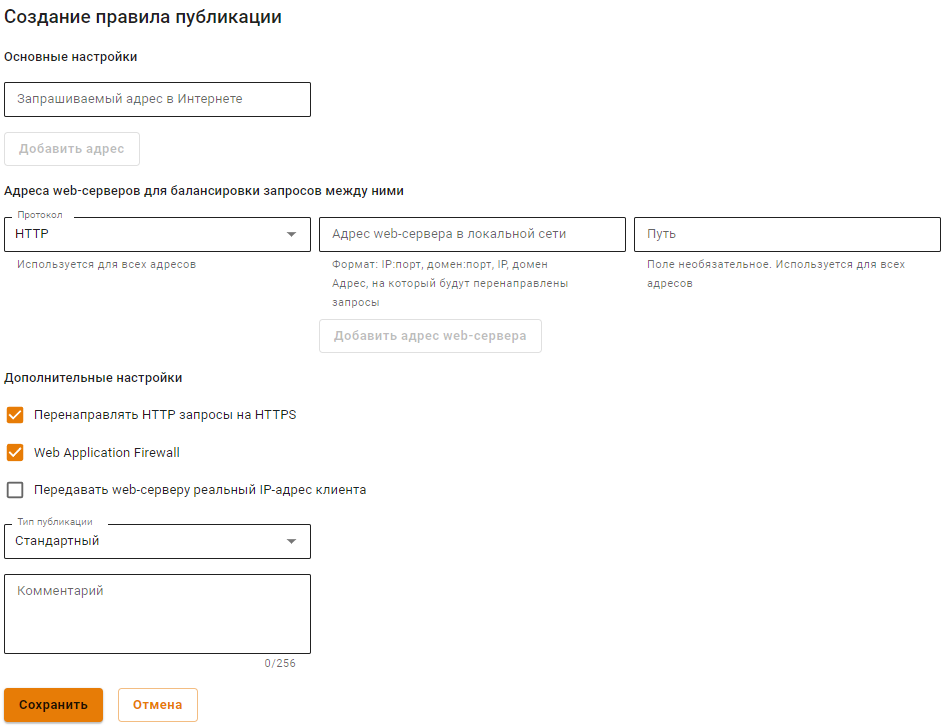
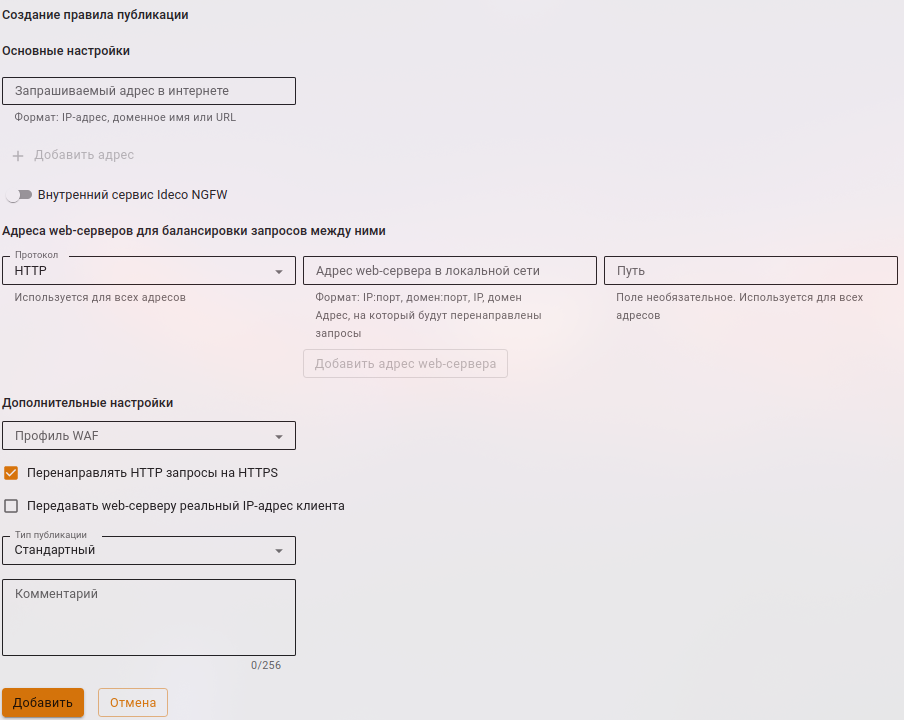
ICS-37695 УТМ. Добавить описание Профилей WAF в событиях безопасности ICS-37688 УТМ. Добавить описание профилей WAF
Автор:     v.kuznetsov<v.kuznetsov@ideco.ru>
 Дата:      Thu Jul 11

diff --git a/settings/security-profiles/waf-profiles.md b/settings/security-profiles/waf-profiles.md
@@ -1,0 +1,56 @@
+---
+description: Настройка WAF для защиты опубликованных веб-ресурсов от атак.
+---
+
+# Web Application Firewall
+
+Профили WAF позволяют настроить параметры защиты для веб-ресурса и в дальнейшем использовать их для защиты ресурсов, требующих одинаковых параметров защиты.
+
+Для настройки защиты опубликованных веб-ресурсов нужно настроить WAF-профиль в разделе **Профили безопасности -> Web Application Firewall** и использовать его в **Обратном прокси** при создании правила. 
+
+Все созданные профили WAF сохраняются в разделе **Профили безопасности -> Web Application Firewall**:
+
+![](/.gitbook/assets/waf-profiles1.png)
+
+## Профили WAF
+
+Для создания профиля WAF выполните действия:
+
+1\. Нажмите **Добавить** и заполните поля:
+
+![](/.gitbook/assets/waf-profiles2.png)
+
+* **Hазвание** - введите название профиля;
+* **Комментарий** - введите пояснение для профиля;
+* **Режим работы** - выберите режим работы:
+    * **Обнаружение и блокировка** - подозрительные запросы будут блокироваться и логироваться WAF;
+    * **Только обнаружение** - подозрительные запросы будут логироваться WAF, но не будут блокироваться;
+* **Дополнительные настройки** - задайте опциональные настройки:
+    * **Скрывать HTTP-заголовок Server** - позволяет скрыть данные идентифицируюшие сервер.
+
+2\. Для включения и просмотра правил перейдите во вкладку **Категории**:
+
+![](/.gitbook/assets/waf-profiles3.png)
+
+3\. Для добавления определенного правила в исключения перейдите во вкладку **Исключения**:
+
+![](/.gitbook/assets/waf-profiles4.png)
+
+4\. Настройте белый и черный список подсетей профиля во вкладке **Белый и черный списки**:
+
+* Для добавления IP-адреса/подсети в белый список нажмите **Добавить** и выберите действие **Не проверять**:
+
+![](/.gitbook/assets/waf-profiles5.png)
+
+* Для добавления IP-адреса/подсети в черный список нажмите **Добавить** и выберите действие **Блокировать**:
+
+![](/.gitbook/assets/waf-profiles6.png)
+
+5\. После конфигурации профиля нажмите **Добавить профиль WAF**.
+
+
+
+
+
+
+

diff --git a/settings/services/reverse-proxy.md b/settings/services/reverse-proxy.md
@@ -43,7 +43,7 @@ description: >-
 ### Дополнительные настройки
 
 * Функция **Перенаправлять HTTP-запросы на HTTPS** используется в случае, если ваш сайт работает только по протоколу HTTPS, но при этом вы не хотите терять посетителей, обратившихся к вашему сайту по HTTP;
-* Функция **Web Application Firewall** позволяет защитить опубликованные ресурсы с помощью Ideco NGFW от различного вида атак (включая атаки SQLi, XSS, DoS и другие);
+* **Профиль WAF** -  позволяет задать параметры защиты веб-ресурса при указании WAF-профиля.
 * При включении функции **Передавать web-серверу реальный IP-адрес клиента** публичный IP-адрес клиента при обратном проксировании не заменяется на адрес NGFW.
   
 {% hint style="info" %}

diff --git a/SUMMARY.md b/SUMMARY.md
@@ -81,6 +81,8 @@
   * [Исключения](settings/access-rules/ips/user-ip-exceptions.md)
   * [Объекты](settings/access-rules/aliases.md)
   * [Квоты](settings/access-rules/quotas.md)
+* [Профили безопасности](settings/security-profiles/README.md)
+  * [Web Application Firewall](settings/security-profiles/waf-profiles.md)
 * [Сервисы](settings/services/README.md)
   * [Сетевые интерфейсы](settings/services/connection-to-provider/README.md)
     * [Настройка Локального Ethernet](settings/services/connection-to-provider/local-ethernet.md)

diff --git a/settings/security-profiles/README.md b/settings/security-profiles/README.md
@@ -1,0 +1,5 @@
+# Профили безопасности
+
+{% content-ref url="waf-profiles.md" %}
+[waf-profiles.md](waf-profiles.md)
+{% endcontent-ref %}
